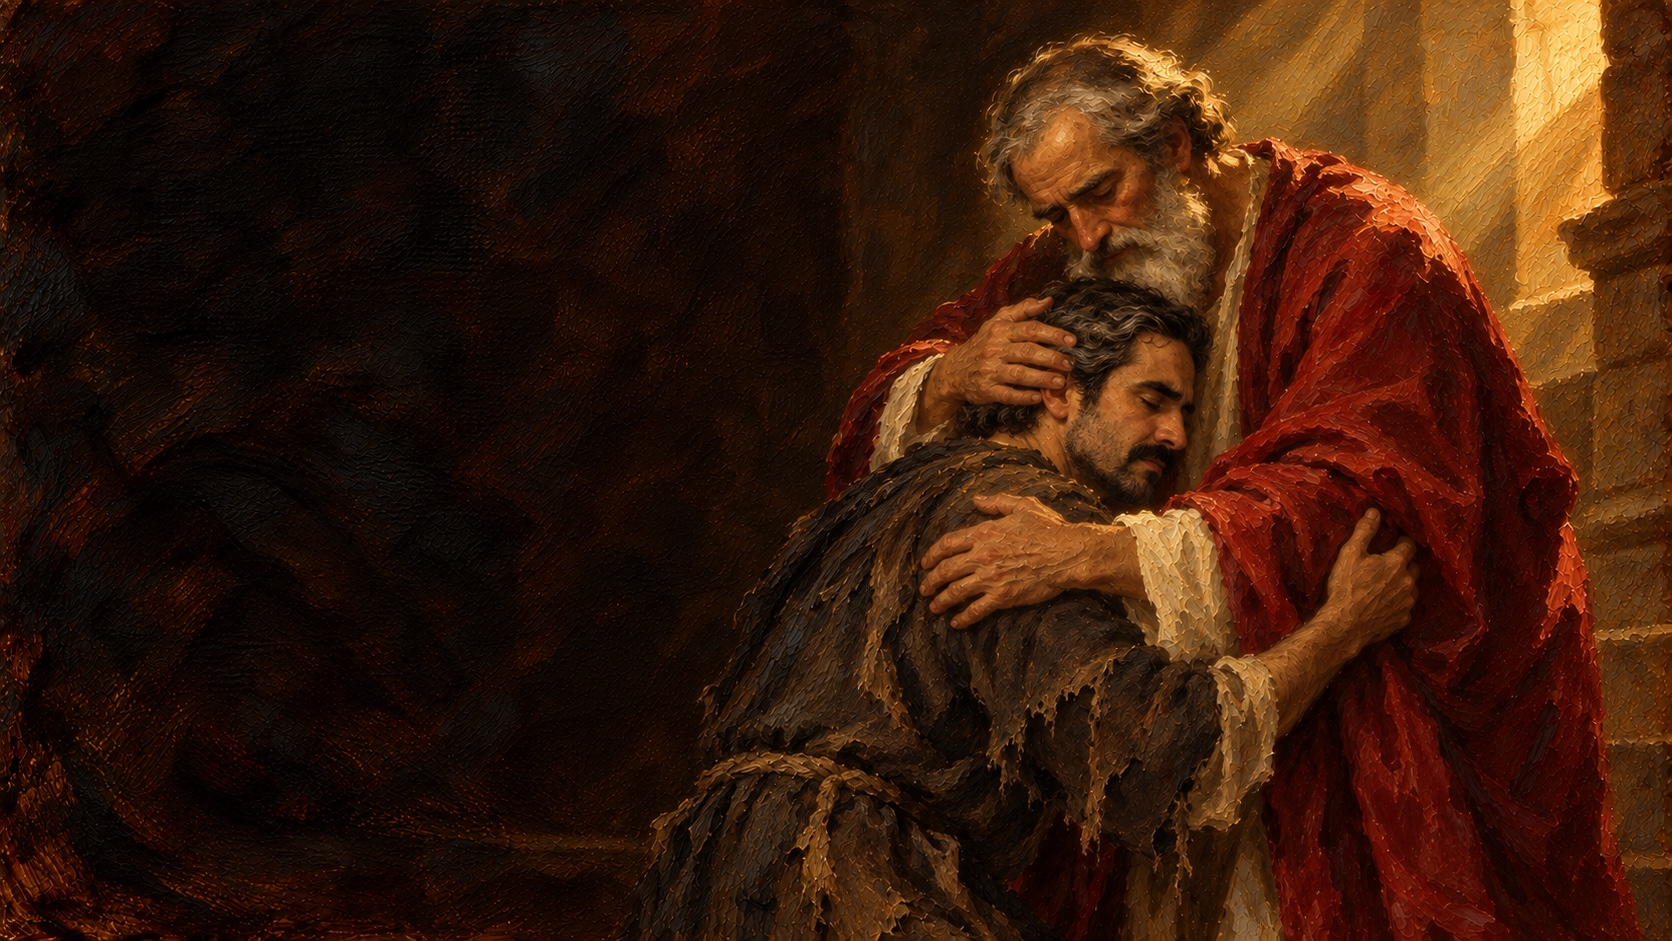
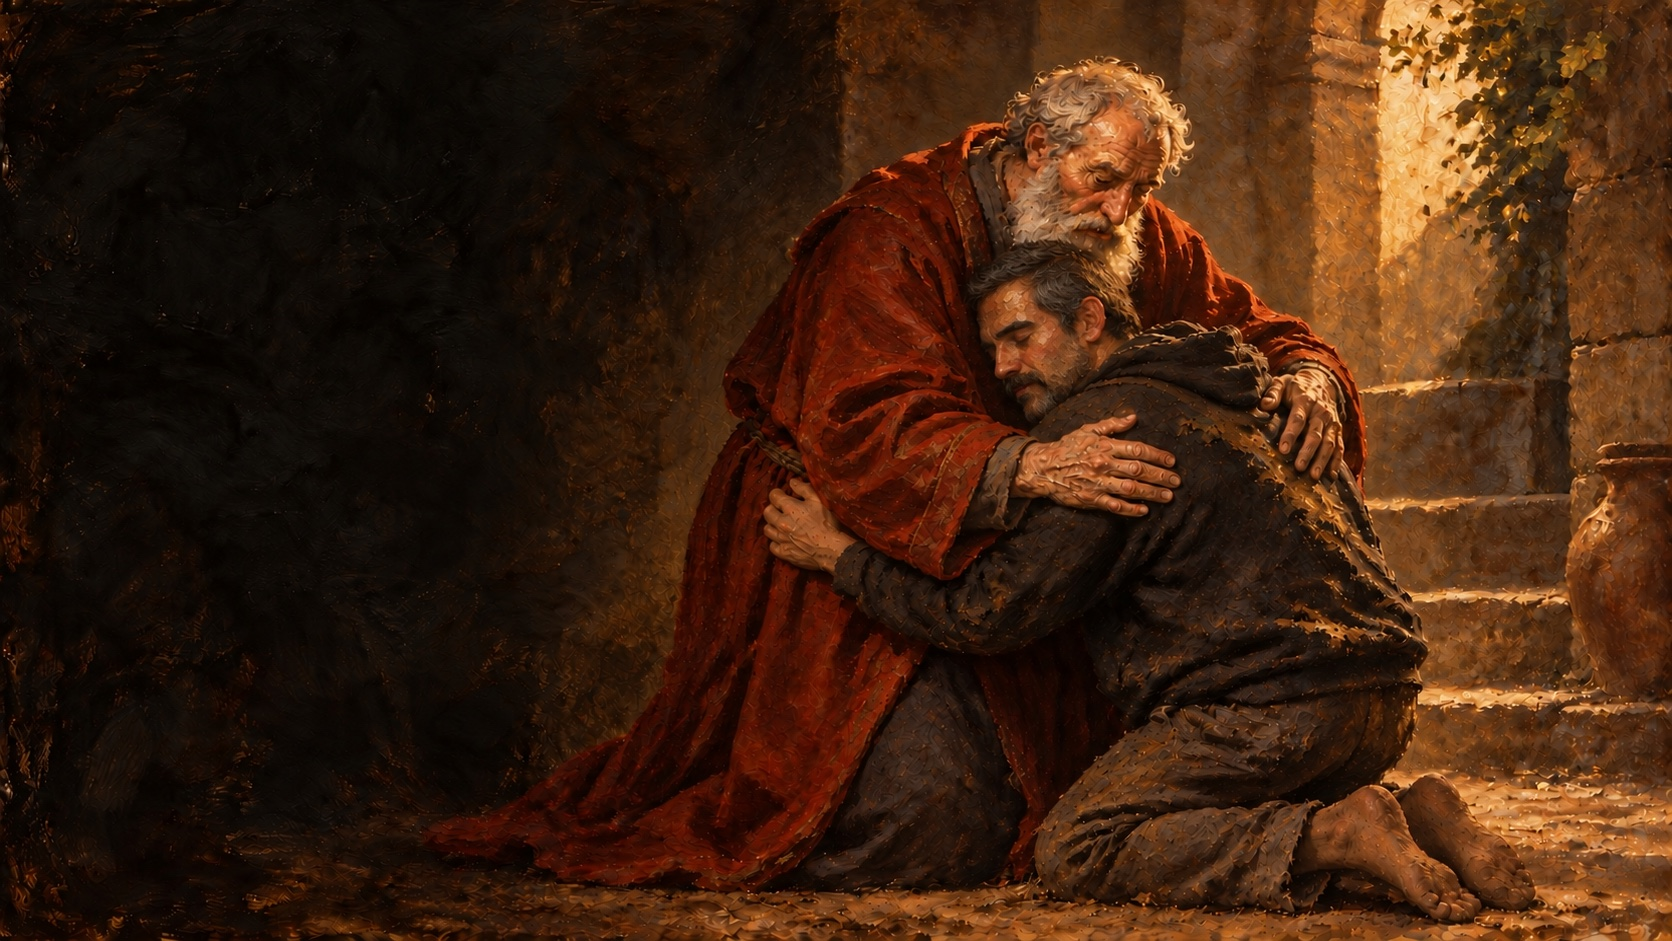
Align prodigal transformation end frame with original composition

diff --git a/00/VIDEO-TRANSFORMACION.md b/00/VIDEO-TRANSFORMACION.md
@@ -1,0 +1,35 @@
+# Hijo pródigo · transición Pepe → Rogelio
+
+Estado: **fotogramas preparados, video no generado ni validado**. La escena original de Pepe sigue publicada en la lámina 19; el fotograma humano es un asset de producción, no una lámina activa. No se cambia el orden de la presentación aquí.
+
+## Entradas, en este orden
+
+1. **Start frame:** [`assets/remaster-19.jpg`](assets/remaster-19.jpg), la pintura original de Pepe abrazado por el padre. No modificarla.
+2. **End frame:** [`assets/remaster-19-human.jpg`](assets/remaster-19-human.jpg), misma composición con Rogelio como hijo.
+
+Ambas imágenes miden **1672 × 941 px**, proporción horizontal aproximada 16:9. Usar el modo **First + Last Frame / Frames to Video** si está disponible en la versión de OmniFlash activa. No cargarlas como dos Ingredients independientes: eso no fija los extremos de la toma. Si solo hay Start Frame, detenerse y revisar el modo, no prometer un final idéntico.
+
+## Intención de dirección
+
+Una sola idea visible: el hijo, mientras es acogido por el padre, deja de ser Pepe y aparece Rogelio. La cámara queda fija porque ambos fotogramas comparten escala y encuadre. El padre, la túnica roja, las manos, la escalera, la vasija, la luz cálida y el espacio oscuro a la izquierda deben permanecer estables. El cambio ocurre **en el hijo**, no en toda la escena.
+
+## Prompt para OmniFlash
+
+```text
+One continuous six-second shot, using the supplied first and last frames as exact visual endpoints. The camera is completely locked: no pan, zoom, orbit, dolly, crop change, or cut. Preserve the same Baroque oil painting, the elderly father in the red robe, his head and both hands, the kneeling son's body position and scale, the stone steps, clay jar, warm light from the upper right, and the deep dark space on the left.
+
+0–1 s: hold the first painting nearly still; the father embraces Pepe, the prodigal son. Only subtle breathing and living oil-paint texture.
+1–4.5 s: within that uninterrupted embrace, change only the kneeling son's frog features into the human son shown in the last frame. The green face, visible hand and foot gradually become human skin, dark hair with gray at the temple, moustache and short beard. The son's head stays tucked in the exact same place beneath the father's chin; his black clothing and kneeling silhouette do not shift. The father never releases him.
+4.5–6 s: hold on the supplied human last frame, same embrace and exact composition. The transformation feels like mercy and rebirth, not comedy or a flashy spell.
+
+Maintain hand-painted brushstrokes on every face and surface. No photorealistic face, no costume change, no extra person or limb, no duplicate head, no distorted hands, no dissolving father, no moving background, no glowing particles, no text, no subtitles, no music, no speech.
+```
+
+## Revisión del resultado
+
+- Primer y último cuadro: comparar con los archivos de entrada; el último debe mostrar a Rogelio dentro del abrazo original, no en otra pose.
+- Durante el cambio: padre, manos, ropa, escalera, vasija y luz no deben saltar, duplicarse ni disolverse.
+- El rostro humano debe seguir siendo **pintura**, no un recorte fotográfico.
+- Revisar el clip completo antes de integrarlo al HTML. Un prompt no demuestra que el modelo haya respetado la geometría o los tiempos.
+
+La estructura de dirección sigue el skill `wan3-creative-director` y su skill común `creative-video-director` del repo Content Machine, con el modo de dos fotogramas de `google-omni-flow`. No se ejecutó Wan ni OmniFlash ni se gastaron créditos en esta entrega.

diff --git a/00/ARTE.md b/00/ARTE.md
@@ -57,4 +57,4 @@ El tratamiento de Pepe y la interpretación espiritual son decisiones del testim
 
 ## Remaster del rostro humano
 
-Las pinturas `remaster-28-human.jpg` y `remaster-29-human.jpg` sustituyen en pantalla las versiones de Pepe para «Después» y «Mi corazón ya no está inquieto». `remaster-19-human.jpg` es el fotograma final preparado para una futura transición en video de Pepe a Rogelio en «El hijo pródigo»; la versión de Pepe permanece como fotograma inicial. Las tres son pinturas originales generadas con GPT Image, en formato horizontal, con pincelada visible en el rostro **y** en el cuerpo. Las fotografías personales usadas como referencia de rasgos faciales permanecen fuera de este repositorio público. La decisión visual fue rehacer la figura y la pose completas, no insertar una cara fotográfica en el cuerpo de Pepe. La luz lateral, el abrazo y la escala humana retoman las referencias artísticas citadas arriba, sin copiar las obras.
+Las pinturas `remaster-28-human.jpg` y `remaster-29-human.jpg` sustituyen en pantalla las versiones de Pepe para «Después» y «Mi corazón ya no está inquieto». `remaster-19-human.jpg` es el fotograma final preparado para una futura transición en video de Pepe a Rogelio en «El hijo pródigo»; la versión de Pepe `remaster-19.jpg` permanece intacta como fotograma inicial. Las tres son pinturas originales generadas con GPT Image, en formato horizontal, con pincelada visible en el rostro **y** en el cuerpo. Las fotografías personales usadas como referencia de rasgos faciales permanecen fuera de este repositorio público. Para 28 y 29 se rehizo la figura y la pose completas. Para 19, tras rechazar una versión con otro ángulo, se conservó la composición original inspirada en el abrazo del hijo pródigo de Rembrandt: mismo padre, abrazo, pose, escala, escalera, luz y espacio negativo; se sustituyeron únicamente los rasgos de rana del hijo por una figura humana pintada. La generación se acerca mucho más en geometría, pero no garantiza registro píxel por píxel. El prompt y las comprobaciones de la transición están en `VIDEO-TRANSFORMACION.md`.
